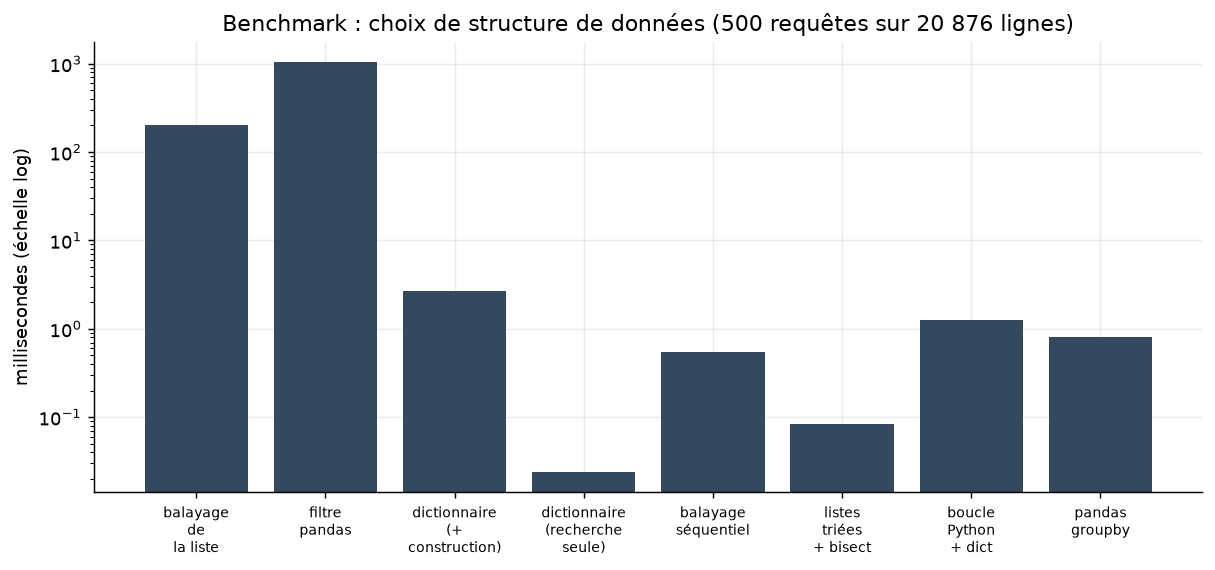
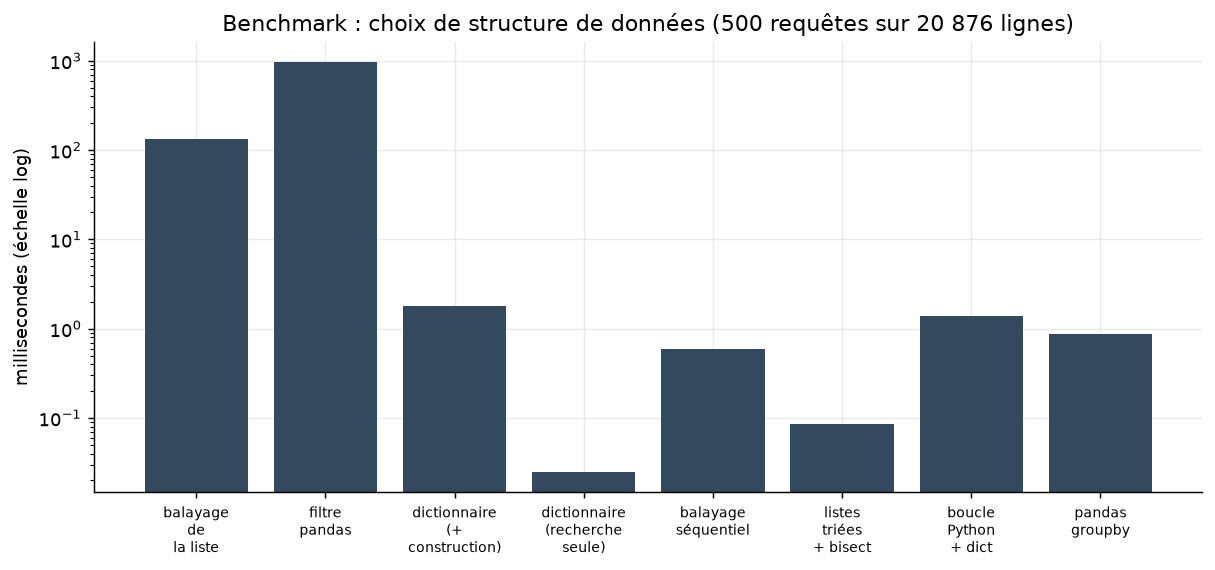
Forcer l'UTF-8 en console Windows pour l'affichage des accents

diff --git a/analyse_marche.py b/analyse_marche.py
@@ -27,6 +27,7 @@ import difflib
 import json
 import random
 import re
+import sys
 import time
 import unicodedata
 from pathlib import Path
@@ -818,6 +819,10 @@ def main(avec_benchmark=True):
 
 
 if __name__ == "__main__":
+    # Console Windows : forcer l'UTF-8 pour que les accents s'affichent correctement
+    for flux in (sys.stdout, sys.stderr):
+        if hasattr(flux, "reconfigure"):
+            flux.reconfigure(encoding="utf-8")
     ap = argparse.ArgumentParser()
     ap.add_argument("--no-bench", action="store_true", help="ne pas lancer le benchmark")
     main(avec_benchmark=not ap.parse_args().no_bench)
